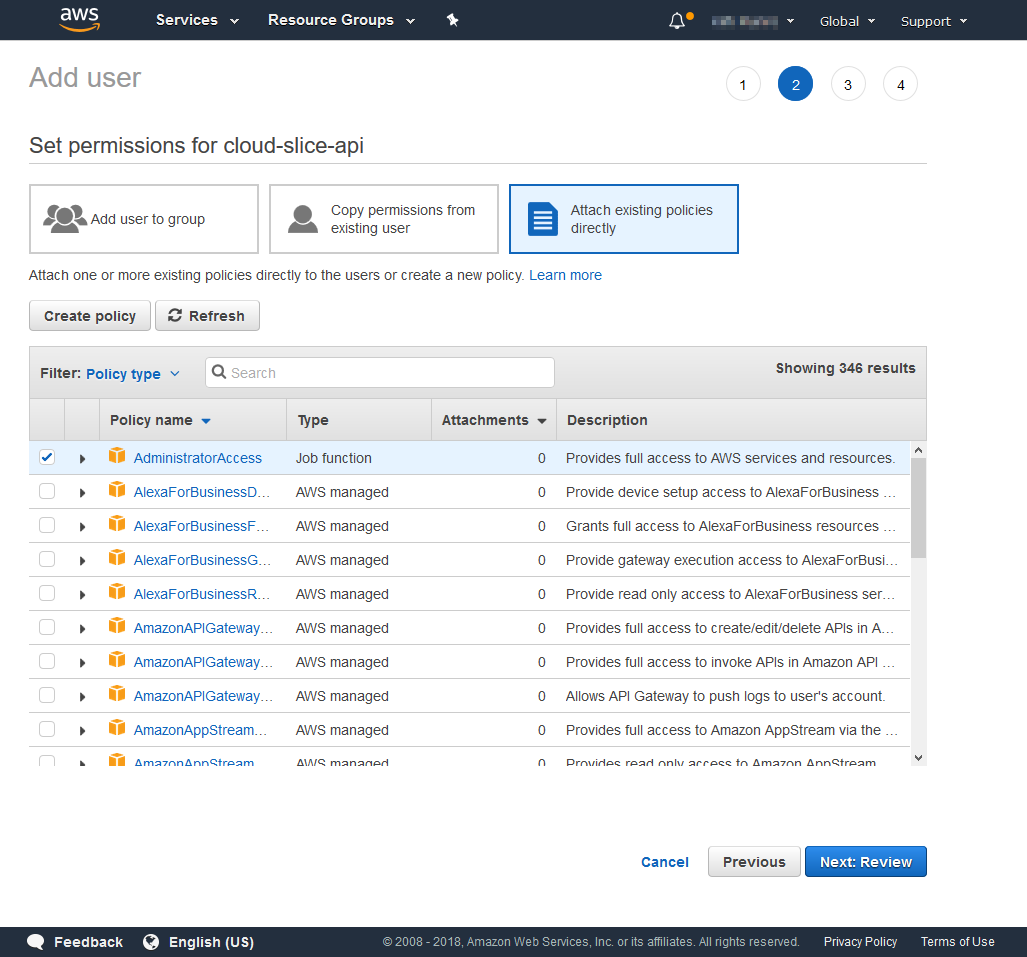
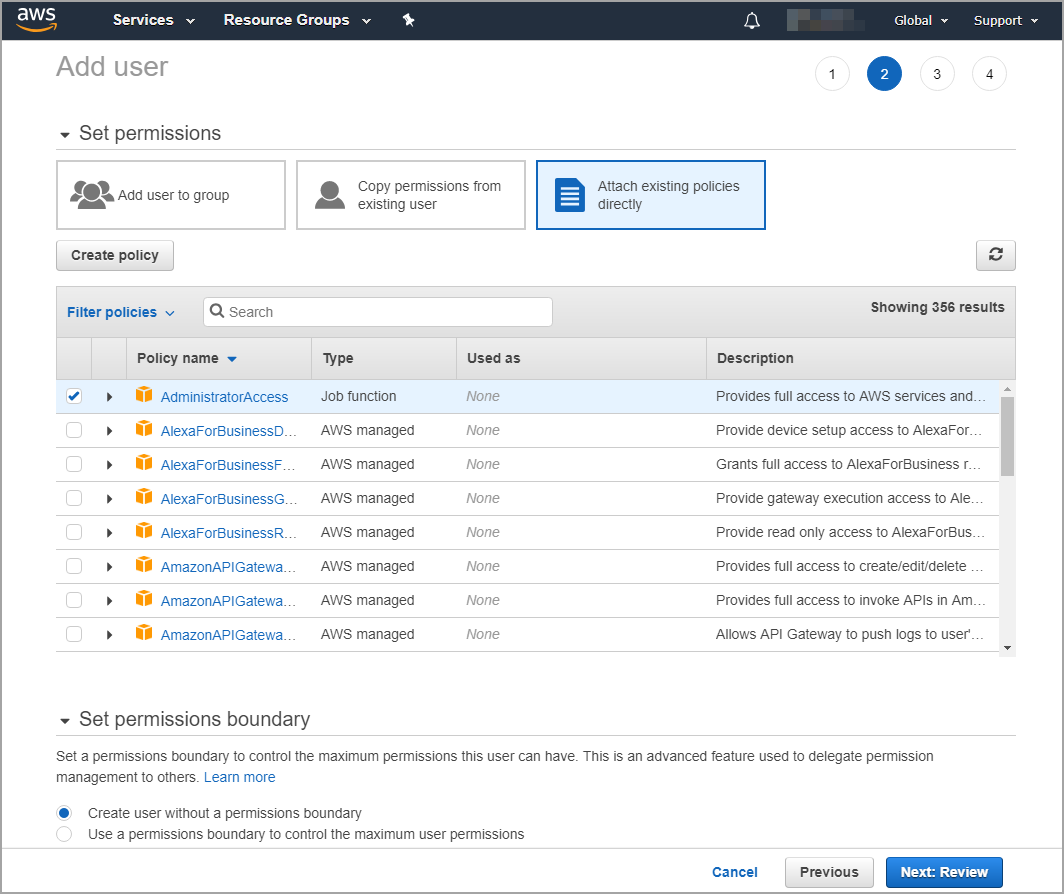
update setup-cloud-resource-management-aws.md
Updated setup-cloud-resource-management-aws.md
- updated table to include organization
- updated screenshots with borders
- updated screenshots with permissions boundary information

Changed region(s): [[0.0, 0.0, 1.0, 1.0], [0.0623, 0.906, 0.4985, 0.9362], [0.9036, 0.2718, 0.9659, 0.302]]

diff --git a/lod/quick-starts/cloud-slice/setup-cloud-resource-management-aws.md b/lod/quick-starts/cloud-slice/setup-cloud-resource-management-aws.md
@@ -18,7 +18,7 @@ All Amazon AWS accounts are added to LOD as part of a Cloud Subscription Pool. T
 
 1. [] Navigate to the <[Lab on Demand Administration page](/Admin).
 
-1. [] Click <[Cloud Subscription Pools](/CloudSubscriptionPool) on the Cloud Services tile.
+1. [] Click <[Subscription Pools](/CloudSubscriptionPool) on the Cloud Services tile.
 
     !IMAGE[Cloud Subscription Pools](images/lod-open-cloud-subscription-pools.png)
 
@@ -40,6 +40,7 @@ All Amazon AWS accounts are added to LOD as part of a Cloud Subscription Pool. T
     |--|--|--|
     |**Basic Information**|**Cloud Platform**|AWS|
     ||**Name**|A name of your choosing.|
+    ||**Organization**|Select the organization that will use the subscription|
     |**Authentication**|**AWS Access Key**|The access key ID from the csv file that you downloaded you configured your account in the previous Quick Start.|
     ||**AWS Secret Key**|The secret access key from the csv file that you downloaded when you configured your account in the previous Quick Start.|
 

diff --git a/lod/quick-starts/cloud-slice/configure-cloud-provider-aws.md b/lod/quick-starts/cloud-slice/configure-cloud-provider-aws.md
@@ -23,6 +23,13 @@ To create an IAM user with administrator access in AWS, do the following:
 
 1. [] On step 2 of the Add user form, click **Attach existing policies directly**, check the **AdministratorAccess** policy in the policy list, and then click **Next: Review**.
 
+    >[!KNOWLEDGE] Optionally, you can also configure the following roles, if needed. 
+    > - AmazonEC2FullAccess
+    > - AmazonS3FullAccess
+    > - AmazonVPCFullAccess
+    > - AWSImportExportFullAccess
+
+
     ![Fill out step 2 of the create IAM user form](images/aws-create-iam-user-step-2.png)
 
 1. [] On step 3 of the Add user form, review the choices you made to ensure that they are correct, and then click **Create user**.
